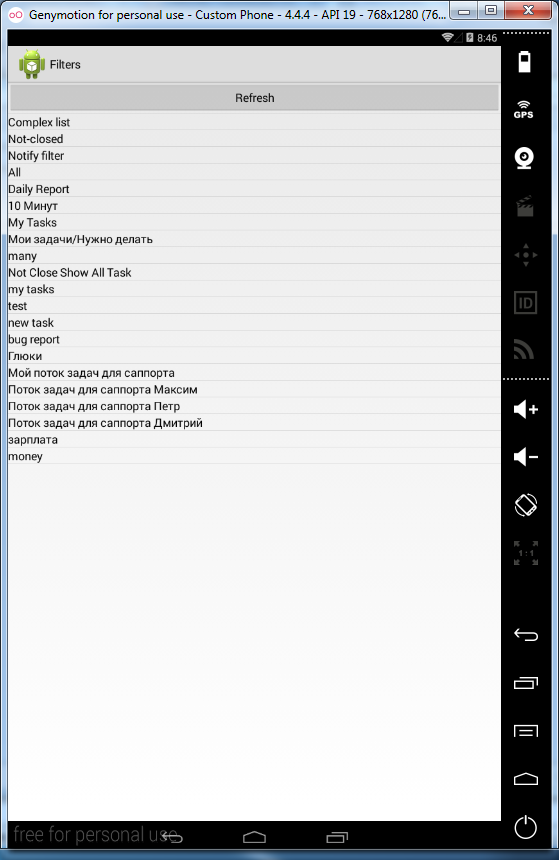
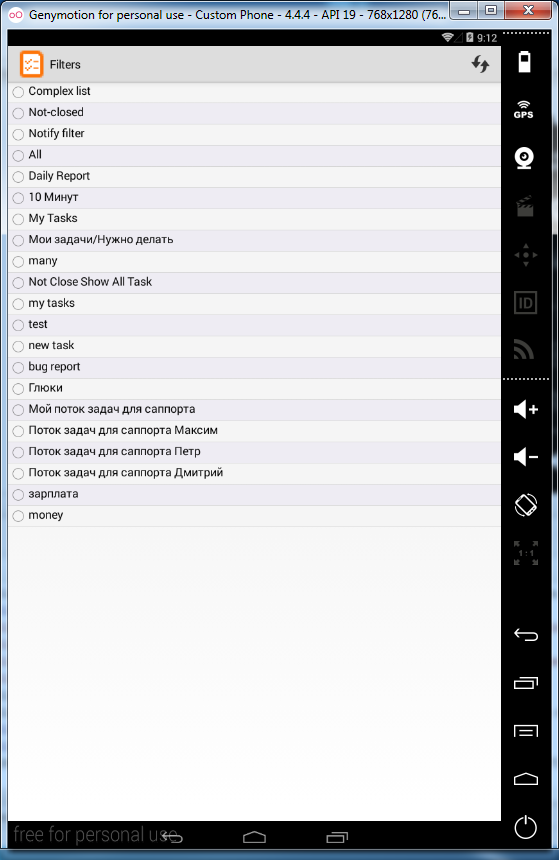
Change the UI for Lisk Tasks #13

diff --git a/src/com/trackstudio/viewer/adapters/FilterList.java b/src/com/trackstudio/viewer/adapters/FilterList.java
@@ -1,6 +1,7 @@
 package com.trackstudio.viewer.adapters;
 
 import android.app.Activity;
+import android.graphics.Color;
 import android.view.LayoutInflater;
 import android.view.View;
 import android.view.ViewGroup;
@@ -36,6 +37,11 @@ public class FilterList extends ArrayAdapter<FilterItem> {
             viewHolder = (ViewHolder) convertView.getTag();
         }
         this.updateFilterItem(viewHolder, position);
+        if (position % 2 == 0) {
+            convertView.setBackgroundColor(Color.rgb(245, 245, 245));
+        } else {
+            convertView.setBackgroundColor(Color.rgb(238, 236, 243));
+        }
         return convertView;
     }
 

diff --git a/src/com/trackstudio/viewer/adapters/TaskList.java b/src/com/trackstudio/viewer/adapters/TaskList.java
@@ -1,6 +1,7 @@
 package com.trackstudio.viewer.adapters;
 
 import android.app.Activity;
+import android.graphics.Color;
 import android.view.LayoutInflater;
 import android.view.View;
 import android.view.ViewGroup;
@@ -34,6 +35,11 @@ public class TaskList extends ArrayAdapter<TaskItem> {
             viewHolder = (ViewHolder) convertView.getTag();
         }
         this.updateTaskItem(viewHolder, position);
+        if (position % 2 == 0) {
+            convertView.setBackgroundColor(Color.rgb(245, 245, 245));
+        } else {
+            convertView.setBackgroundColor(Color.rgb(238, 236, 243));
+        }
         return convertView;
     }
 
